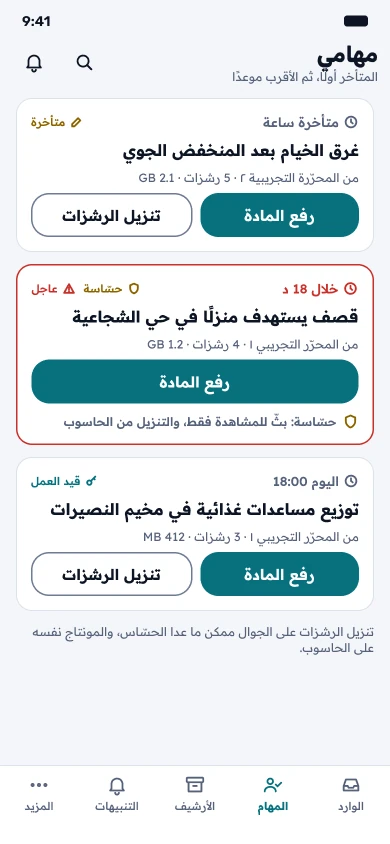
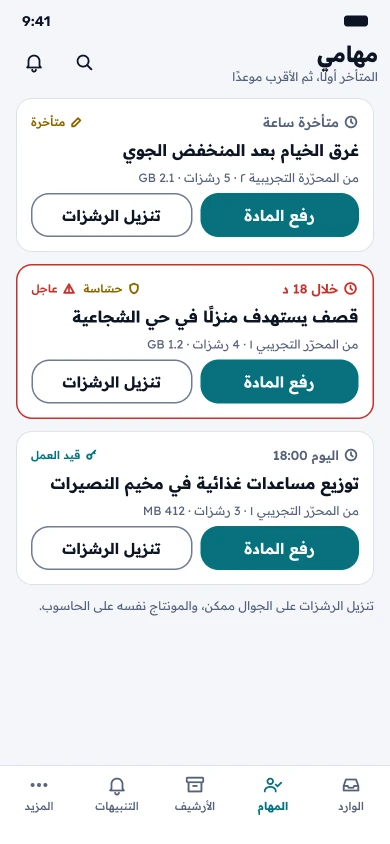
design: sensitive rushes downloadable on phone and tablet (owner decision)
The owner decided on 2026-11-02 ("مسموح عادي") that editors may download
sensitive-flagged rushes on phone and tablet like any other. This
replaces the coordinator's interim no-download rule from #457 and #460.
- M3: the sensitive card has "تنزيل الرشزات" again, keeps its badge, and
  the footer has no exception. Re-exported.
- web-v2.md: the M3 row and the phone/tablet line state the rule, and
  that every download of sensitive rushes is recorded in the audit log.
- decisions/README.md: a 2026-11-02 row in the settled human decisions.

Claude-Session: https://claude.ai/code/session_01HY7py4Kwox1KypVxZuFGKP

Changed region(s): [[0.0308, 0.4005, 0.9846, 0.7701]]

diff --git a/docs/design/specs/web-v2.md b/docs/design/specs/web-v2.md
@@ -65,12 +65,12 @@
 |---|---|---|
 | M1 | الوارد (جوال) | بطاقة لكل مادة: صورة مصغّرة، والعنوان على سطرين، ثم الوقت في سطر والمراسل والمحافظة في سطر؛ العاجل حدّ وشارة وكلمة؛ زرّ «حوّل» بكلمته (≥ 44)؛ مرشّحا المحافظة والتاريخ ومؤشّرات W1 خلف «تصفية» في الشريط العلوي |
 | M2 | تفاصيل المادة (جوال) | المشغّل 16:9، والحالات الثلاث منفصلة، وسطر الحساسية؛ في أسفل الشاشة «استلام» الفعل الأساسي (كالخطوة التالية في W2) و«حوّل للمونتير» ثانويًا |
-| M3 | مهامي (جوال) | المتأخر أولًا ثم الأقرب موعدًا؛ تنزيل الرشزات ورفع المادة متاحان، والمونتاج نفسه على الحاسوب. **المادة الحسّاسة** (شارة «حسّاسة») **لا تُنزَّل رشزاتها على تخطيط الجوال**: تُشاهَد بالبثّ وحده (المشغّل بلا رابط تنزيل مباشر ولا مشاركة)، وتُنزَّل من الحاسوب وحده بسجلّ تدقيق، وبطاقتها تقول ذلك مكان زرّ التنزيل. قاعدة مؤقتة من المنسّق، بانتظار تأكيد المالك |
+| M3 | مهامي (جوال) | المتأخر أولًا ثم الأقرب موعدًا؛ تنزيل الرشزات ورفع المادة متاحان، والمونتاج نفسه على الحاسوب. المادة الحسّاسة تحمل شارة «حسّاسة»، ورشزاتها تُنزَّل كغيرها (قرار المالك 2026-11-02)، وكل تنزيل لها يُسجَّل في سجل التدقيق |
 | M4 | المتجر (جوال، داكن) | بطاقة بعرض الشاشة، والمعاينة بعلامة مائية؛ الترخيص والشراء كما على الحاسوب |
 | M5 | المال (جوال) | جدول A4 يصير قائمة سجلّات: سطر للاسم والنصيب، وسطر للبيع والصافي والحالة، والمجموع في الأسفل؛ معادلة A4 بنصّها فوق القائمة. المبالغ المنفردة تحمل رمز العملة لأنها ليست أعمدة |
 | T1 | الوارد (تابلت) | شريط الأيقونات بدل الشريط الكامل، والصفوف كما على الحاسوب، وأفعالها بارتفاع 44 |
 
-**الحسّاس على الجوال والتابلت:** قاعدة M3 تسري على تخطيطَي الجوال والتابلت معًا، ومنها شاشة مهام التابلت حين تُرسم. رشزات المادة الحسّاسة تُشاهَد بالبثّ ولا تُنزَّل، والتنزيل من سطح المكتب وحده بسجلّ تدقيق.
+**الحسّاس على الجوال والتابلت:** رشزات المادة الحسّاسة تُنزَّل على الجوال والتابلت وسطح المكتب كغيرها، ومنها شاشة مهام التابلت حين تُرسم. القرار يغيّر أين يُسمح بالتنزيل لا تسجيله: كل تنزيل لرشزات حسّاسة يُسجَّل في سجل التدقيق (الخطة: «كل عملية حساسة تُسجَّل في سجل إلحاقي»). قرار المالك 2026-11-02، ويحلّ محلّ قاعدة المنسّق المؤقتة في #457 و#460.
 
 ## الحالات: الفراغ والتحميل والخطأ
 

diff --git a/docs/plan/decisions/README.md b/docs/plan/decisions/README.md
@@ -56,6 +56,7 @@
 | 2026-10-27 | معاينة للموبايل للتجربة: بناء iOS التجريبي (TestFlight) يتصل بالمعاينة الخفيفة بحسابات اصطناعية؛ `/v1/` علني على حافتها وشهادة الجهاز بالمعرّف الحقيقي، وأندرويد مغلق | المالك | ADR 0077، `infra/preview/` |
 | 2026-11-01 | إعادة تصميم المنصة: المحرر داخل المتصفح معتمد لمواد العاجل وحدها، في مرحلة «مكتب المحرر» اللاحقة لا في المرحلة الحالية (ADR 0083)؛ والنشر المباشر إلى منصات الشبكة في المرحلة نفسها، والزر «تنزيل جاهز للنشر» إلى أن تتمّ موافقات المنصات (ADR 0084)؛ والهوية البصرية v2 باتجاه «إشارة» (ADR 0085)؛ وتطبيق المراسل v2 باسم «بوست ميدان»؛ والوسوم في العقد (ADR 0086، PR #452) | المالك | `CLAUDE.md` §1، ADR 0083–0085، `docs/design/redesign-2026-11/`، العقد (PR #452) |
 | 2026-11-02 | اسم تطبيق المراسل «ميدان بوست» بالعربية و"Maydan Post" بالإنجليزية، في المتجرين وعلى الجهاز؛ يحلّ محل «مكتبة بوست» (iOS) و«المكتبة المرئية» (أندرويد)، وبهذا الترتيب للكلمتين لا «بوست ميدان» الوارد في وثائق التصميم v2؛ ويبقى «المكتبة المرئية» اسمًا للمنصة لا للتطبيق؛ وتُعاد تسمية وثائق التصميم v2 في PR التصميم التالي | المالك | `apps/ios/project.yml`، `apps/ios/App/Resources/`، `apps/ios/store/metadata/`، `apps/android/app/src/main/res/`، `apps/android/store/metadata/android/`، `docs/design/` (PR التصميم التالي) |
+| 2026-11-02 | تنزيل رشزات المواد الحسّاسة مسموح للمحرر على الجوال والتابلت كغيرها، مع تسجيل كل تنزيل في سجل التدقيق؛ يحلّ محلّ قاعدة المنسّق المؤقتة في #457 و#460 | المالك | `docs/design/specs/web-v2.md` (M3 والتابلت)، الويب، الخادم (سجل التدقيق) |
 
 ## قرارات الأمن (من نموذج التهديد `docs/security/threat-model.md`)
 
